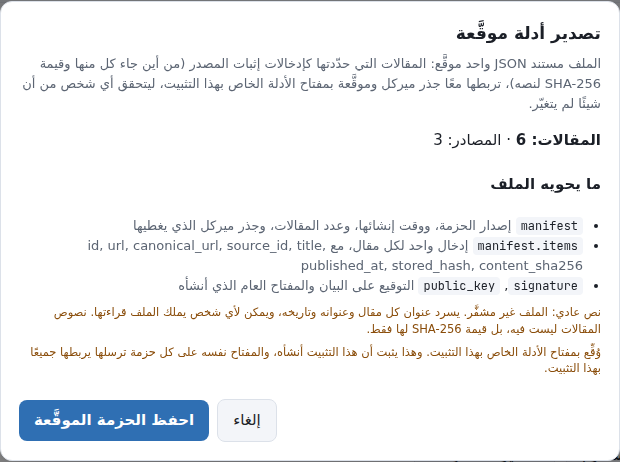
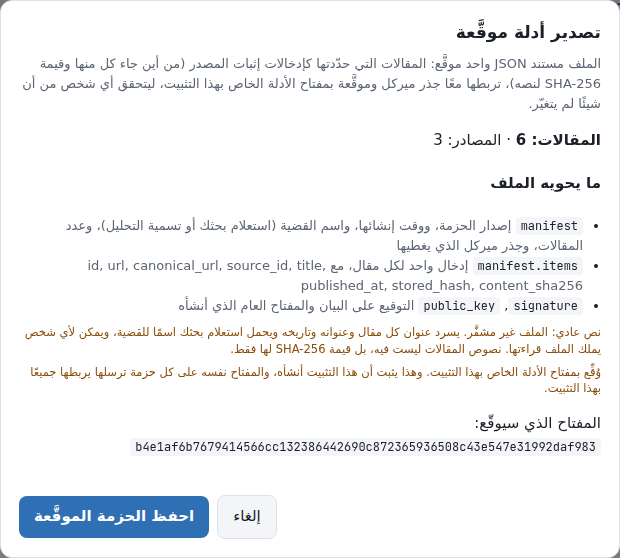
Row K S5: fixes from the diff review
A save in flight is dropped if its dialog closed or moved on; the review names the
case name and shows the key that will sign; the plan counts with a SELECT and cannot
regenerate a key; the open tab counts as pinned in the tour; a stale plan's failure
no longer toasts over a newer review. Strings and tests updated, walk rerun.

Claude-Session: https://claude.ai/code/session_01QuXScuyARLdyaM2ALpaWRa

diff --git a/src/static/app-evidence.js b/src/static/app-evidence.js
@@ -33,7 +33,7 @@
       // reorder them around its own punctuation
       const fields = "\u2066" + (plan.item_fields || []).join(", ") + "\u2069";
       return `<ul class="claim-members">`
-        + `<li><code>manifest</code> <span class="muted">${esc(t("the bundle version, when it was made, how many articles, and the Merkle root that covers them"))}</span></li>`
+        + `<li><code>manifest</code> <span class="muted">${esc(t("the bundle version, when it was made, the case name (your search query or the analysis label), how many articles, and the Merkle root that covers them"))}</span></li>`
         + `<li><code>manifest.items</code> <span class="muted">${esc(tf("one entry per article, with {fields}", {fields}))}</span></li>`
         + `<li><code>signature</code>, <code>public_key</code> <span class="muted">${esc(t("the signature over the manifest and the public key that made it"))}</span></li>`
         + `</ul>`;
@@ -45,10 +45,12 @@
       return `<p class="claim-method">${esc(method)}</p>`
         + `<p><b>${esc(tf("Articles: {n}", {n: plan.articles}))}</b> · ${esc(tf("Sources: {n}", {n: plan.sources}))}</p>`
         + `<h4>${esc(t("What the file holds"))}</h4>` + evidenceMembersHtml(plan, t, tf)
-        + `<p class="card-caveat">${esc(t("Plaintext: the file is not encrypted. It lists each article's address, title and date, and anyone who has the file can read them. The articles' text is not in it, only its SHA-256."))}</p>`
+        + `<p class="card-caveat">${esc(t("Plaintext: the file is not encrypted. It lists each article's address, title and date and carries your search query as the case name, and anyone who has the file can read them. The articles' text is not in it, only its SHA-256."))}</p>`
         + `<p class="card-caveat">${esc(signer.exists
           ? t("It is signed with this install's evidence key. That proves this install made it, and the same key on every bundle you send links all of them to this install.")
-          : t("This install has no evidence key yet. One is created on this machine when you save, and stays here. It proves this install made a bundle, and links every bundle it signs."))}</p>`;
+          : t("This install has no evidence key yet. One is created on this machine when you save, and stays here. It proves this install made a bundle, and links every bundle it signs."))}</p>`
+        + (signer.exists && signer.ed25519_pub
+          ? `<p>${esc(t("The key that will sign:"))} <code class="claim-key">${esc(signer.ed25519_pub)}</code></p>` : "");
     }
 
     // The message after saving: what was saved, what the file holds, the key to hand over.
@@ -73,10 +75,15 @@
       const t = _evT(), tf = _evTf();
       const status = $("evidence-status"), save = $("evidence-save");
       if (!_evScope || !_evPlan) return;
+      const mine = _evSeq;   // the open this save belongs to
       if (save) save.disabled = true;
       if (status) status.textContent = t("Writing and signing the bundle…");
       try {
         const bundle = await api("/api/reports/evidence", {method: "POST", body: JSON.stringify(_evScope)});
+        // closed, or reopened on another selection, while the file was being written: the
+        // reader cancelled THIS one, so nothing downloads and nothing claims to be saved
+        const dlg = $("evidence-review");
+        if (mine !== _evSeq || !dlg || !dlg.open) return;
         const blob = new Blob([JSON.stringify(bundle, null, 2)], {type: "application/json"});
         const day = String((bundle.manifest || {}).generated_at || "").slice(0, 10);
         const filename = "evidence-bundle" + (day ? "-" + day : "") + ".json";
@@ -87,6 +94,7 @@
         if (status) status.textContent = "";
         _evPaint();
       } catch (e) {
+        if (mine !== _evSeq) return;
         if (status) status.textContent = t("The bundle could not be written:") + " " + ((e && e.message) || String(e));
       } finally {
         if (save) save.disabled = false;
@@ -99,6 +107,9 @@
       const on = (id, fn) => { const el = $(id); if (el) el.addEventListener("click", fn); };
       on("evidence-save", () => evidenceSave());
       on("evidence-close", () => { const d = $("evidence-review"); if (d && d.open) d.close(); });
+      // however it closes (Cancel, Esc), a save still in flight no longer belongs to anything
+      const dlg = $("evidence-review");
+      if (dlg) dlg.addEventListener("close", () => { _evSeq++; });
       document.addEventListener("oo:langchange", () => { const d = $("evidence-review"); if (d && d.open) _evPaint(); });
     }
 
@@ -113,7 +124,7 @@
       try {
         plan = await api("/api/reports/evidence/plan", {method: "POST", body: JSON.stringify(sel)});
       } catch (e) {
-        toast(_failMsg("Evidence export: {error}", e), "err");
+        if (seq === _evSeq) toast(_failMsg("Evidence export: {error}", e), "err");
         return;
       }
       if (seq !== _evSeq) return;

diff --git a/tests/evidence_review_node_test.js b/tests/evidence_review_node_test.js
@@ -69,11 +69,17 @@ assert.ok(review.includes("It is signed with this install's evidence key.") && r
 assert.ok(review.includes("id, url, canonical_url, source_id, title, published_at, stored_hash, content_sha256"), review);
 assert.ok(review.includes("manifest") && review.includes("signature") && review.includes("public_key"), review);
 assert.ok(!review.includes("created on this machine"), "a key that exists is not 'created'");
+// the file carries the reader's query as the case name: the review says so, in the list and in the caveat
+assert.ok(review.includes("the case name (your search query or the analysis label)"), review);
+assert.ok(review.includes("carries your search query as the case name"), review);
+// the key that WILL sign is shown before saving, so it can be checked
+assert.ok(review.includes("The key that will sign: " + "ab".repeat(32)), review);
 
 // no key yet: say one will be made, and that it stays here
 const fresh = visible(R.evidenceReviewHtml(Object.assign({}, PLAN, { signer: { exists: false, ed25519_pub: null } }), t, tf));
 assert.ok(fresh.includes("no evidence key yet") && fresh.includes("created on this machine when you save"), fresh);
 assert.ok(!fresh.includes("It is signed with this install's evidence key."), fresh);
+assert.ok(!fresh.includes("The key that will sign"), "no key yet: none is shown");
 // no fields on the wire: still a well-formed line, never "undefined"
 const bare = visible(R.evidenceReviewHtml({ articles: 1, sources: 1, signer: {} }, t, tf));
 assert.ok(!bare.includes("undefined") && !bare.includes("null"), bare);

diff --git a/src/static/app-tour.js b/src/static/app-tour.js
@@ -109,7 +109,9 @@
         out.push({
           id: b.getAttribute("data-tab"),
           label: ((span && span.textContent) || b.getAttribute("data-tab")).trim(),
-          pinned: depth !== "essentials" || b.getAttribute("data-ring") === "0",
+          // the OPEN tab stays listed at every depth (invariant #2), so it is on screen, not
+          // behind "Show more", whatever its ring
+          pinned: depth !== "essentials" || b.getAttribute("data-ring") === "0" || b.classList.contains("active"),
         });
       });
       return {tabs: out, depth};

diff --git a/tests/test_evidence_review.py b/tests/test_evidence_review.py
@@ -108,6 +108,34 @@ def test_a_foreign_or_unreadable_key_file_reads_as_no_key_and_is_left_alone(key_
     assert key_path.read_bytes() == b"not a pem file", "a review never rewrites a key file"
 
 
+def test_a_key_that_vanishes_or_is_odd_is_never_regenerated_by_a_review(key_path, monkeypatch):
+    # missing: no key, and none created
+    assert ev.existing_public_key_hex() is None
+    assert not key_path.exists()
+    # a PEM of another algorithm reads as no key (the export fails loudly, where someone waits)
+    from cryptography.hazmat.primitives import serialization
+    from cryptography.hazmat.primitives.asymmetric.ed448 import Ed448PrivateKey
+
+    key_path.parent.mkdir(parents=True)
+    key_path.write_bytes(Ed448PrivateKey.generate().private_bytes(
+        serialization.Encoding.PEM, serialization.PrivateFormat.PKCS8, serialization.NoEncryption()))
+    assert ev.existing_public_key_hex() is None
+    # the helper must not even hold a path to key CREATION
+    import inspect
+
+    assert "load_or_create_signing_key(" not in inspect.getsource(ev.existing_public_key_hex)
+
+
+def test_the_plan_counts_with_a_select_not_by_loading_article_rows():
+    import inspect
+
+    from src.api import reporting
+
+    body = inspect.getsource(reporting.plan_evidence)
+    assert "_select_articles" not in body, "counts need no article text in memory"
+    assert "func.count" in body
+
+
 def test_the_listed_fields_are_the_keys_the_export_writes(key_path):
     ids = _seed(1, 1)
     with TestClient(app) as client:
@@ -157,6 +185,16 @@ def test_the_review_module_is_precached_and_has_no_inline_handlers():
     js = (_STATIC / "app-evidence.js").read_text(encoding="utf-8")
     assert not re.search(r"\bon(click|change|input|submit)\s*=", js), "the CSP has no 'unsafe-inline'"
     assert "innerHTML" in js and "esc(" in js
+
+
+def test_a_save_in_flight_is_dropped_when_its_dialog_closed_or_moved_on():
+    js = (_STATIC / "app-evidence.js").read_text(encoding="utf-8")
+    save = re.search(r"async function evidenceSave\(\) \{(.*?)\n    \}\n", js, re.S).group(1)
+    assert "const mine = _evSeq" in save and "mine !== _evSeq" in save
+    assert "!dlg.open" in save, "a closed dialog downloads nothing"
+    assert 'addEventListener("close"' in js and "_evSeq++" in js, "Esc and Cancel both retire it"
+    # a stale plan's failure does not toast over the newer review
+    assert "if (seq === _evSeq) toast(" in js
 
 
 def test_the_save_button_still_goes_through_the_signed_export_and_names_the_key():

diff --git a/src/api/reporting.py b/src/api/reporting.py
@@ -9,6 +9,7 @@ from __future__ import annotations
 
 from fastapi import APIRouter, Depends, HTTPException
 from pydantic import BaseModel
+from sqlalchemy import func
 from sqlalchemy.orm import Session
 
 from src.database.fts import SearchQueryError, search_ids
@@ -67,14 +68,19 @@ def plan_evidence(req: EvidenceRequest, db: Session = Depends(get_db)) -> dict:
     will sign. READ-ONLY: it never creates the signing key (that happens at export), makes no
     network call and writes nothing, so looking costs nothing.
     """
-    articles = _select_articles(req, db)
-    if not articles:
+    ids = _selected_ids(req, db)
+    n_articles, n_sources = (
+        db.query(func.count(Article.id), func.count(func.distinct(Article.source_id)))
+        .filter(Article.id.in_(ids))
+        .one()
+    )
+    if not n_articles:
         raise HTTPException(status_code=404, detail="No matching articles to export.")
     pub = existing_public_key_hex()
     return {
         "bundle_version": BUNDLE_VERSION,
-        "articles": len(articles),
-        "sources": len({a.source_id for a in articles}),
+        "articles": int(n_articles),
+        "sources": int(n_sources),
         "item_fields": list(ITEM_FIELDS),
         "text_included": False,
         "signer": {"exists": pub is not None, "ed25519_pub": pub},
@@ -103,6 +109,18 @@ class MethodsRequest(BaseModel):
     case_name: str | None = None
     notes: str | None = None
     include_bundle: bool = False
+
+
+def _selected_ids(req, db) -> list[int]:
+    """The ids ``_select_articles`` would load, without loading the rows (counts need no text)."""
+    if req.article_ids:
+        return list(req.article_ids)
+    if req.query:
+        try:
+            return list(search_ids(db, req.query) or [])
+        except SearchQueryError as exc:
+            raise HTTPException(status_code=400, detail=f"Invalid query: {exc}") from exc
+    raise HTTPException(status_code=400, detail="Provide article_ids or query.")
 
 
 def _select_articles(req, db) -> list:

diff --git a/src/reporting/evidence.py b/src/reporting/evidence.py
@@ -81,12 +81,15 @@ def existing_public_key_hex(path: Path | None = None) -> str | None:
     ``load_or_create_signing_key``, where a person is waiting on the outcome.
     """
     path = path or _default_key_path()
-    if not path.exists():
-        return None
     try:
-        return public_key_hex(load_or_create_signing_key(path))
-    except (OSError, ValueError, TypeError):
+        # read and parse only: ``load_or_create_signing_key`` would GENERATE a key if the file
+        # vanished between an exists() check and its read, and a review must never do that
+        key = serialization.load_pem_private_key(path.read_bytes(), password=None)
+    except Exception:  # noqa: BLE001 - missing, unreadable or foreign all read as "no key"
         return None
+    if not isinstance(key, Ed25519PrivateKey):
+        return None
+    return public_key_hex(key)
 
 
 def public_key_hex(key: Ed25519PrivateKey) -> str:

diff --git a/tests/test_onboarding_tour.py b/tests/test_onboarding_tour.py
@@ -112,6 +112,14 @@ def test_it_narrows_nothing_and_keeps_no_record():
     assert "The tour changes nothing" in js, "the promise is on the page, not only in a comment"
 
 
+def test_the_open_tab_counts_as_pinned_because_the_sidebar_keeps_it_listed():
+    """Invariant #2 (R46): the OPEN tab stays listed at Essentials, so a tour opened from it
+    must not tell the reader that tab 'waits behind Show more'."""
+    assert 'classList.contains("active")' in _tour_js()
+    css = (_STATIC / "app.css").read_text(encoding="utf-8")
+    assert '.nav-item[data-ring="1"]:not(.active)' in css, "the rule the tour mirrors"
+
+
 def test_a_depth_that_pins_fewer_tabs_still_names_every_one():
     js = _tour_js()
     assert 'kind: "more"' in js and "list: rest.map" in js, "the unpinned tabs are named"

diff --git a/docs/audit/onboarding-tour-2026-09-30/README.md b/docs/audit/onboarding-tour-2026-09-30/README.md
@@ -20,7 +20,7 @@ is not to the loopback server.
 | Evidence review | Empty Search box: the same refusal toast as before, no dialog. With a query: «Articles: 6 · Sources: 3», what the file holds (with the item fields taken from the server's own list), the plaintext line and the signing-key line, both visible on the page, not in a hover; «Save the signed bundle» |
 | Looking creates nothing | The evidence key file does not exist after the review opened, and exists only after Save |
 | Save | The download `evidence-bundle-2026-09-30.json` holds the 6 articles; the message names the file and its size, lists the three members, prints the signing key (equal to the bundle's `public_key`) and says how to check the file offline |
-| Second open | With a key on disk the review says the file «is signed with this install's evidence key» and that the same key links every bundle |
+| Second open | With a key on disk the review says the file «is signed with this install's evidence key», that the same key links every bundle, and shows the key that will sign |
 | Arabic, 375 px, language change while open | Right-to-left; the field names isolated as a left-to-right run; a language change while the dialog is open redraws it; no overlap, no page scroll |
 | Whole walk | **0 page errors, 0 responses ≥ 400, 0 non-loopback requests**; airplane mode still on at the end |
 
@@ -29,3 +29,11 @@ is not to the loopback server.
 
 **Found and fixed by this walk, before it was recorded:** the list of item fields inside an Arabic sentence was
 reordered around its commas; it is an isolated left-to-right run now.
+
+**Found by the Opus review of the diff, fixed before the PR:** a save still in flight when the dialog was
+closed or reopened on another selection would still download and mark the new selection saved (now dropped);
+the review did not say that the file carries the reader's query as the case name (now in the list and the
+caveat); it did not show the key that will sign (now shown); `existing_public_key_hex` could regenerate a key
+if the file vanished between two calls (now reads and parses only); the tour listed the OPEN tab as waiting
+behind «Show more» at Essentials (the sidebar keeps it listed); the plan loaded every matching article's text
+just to count (now a COUNT); a stale plan's failure toasted over the newer review.
